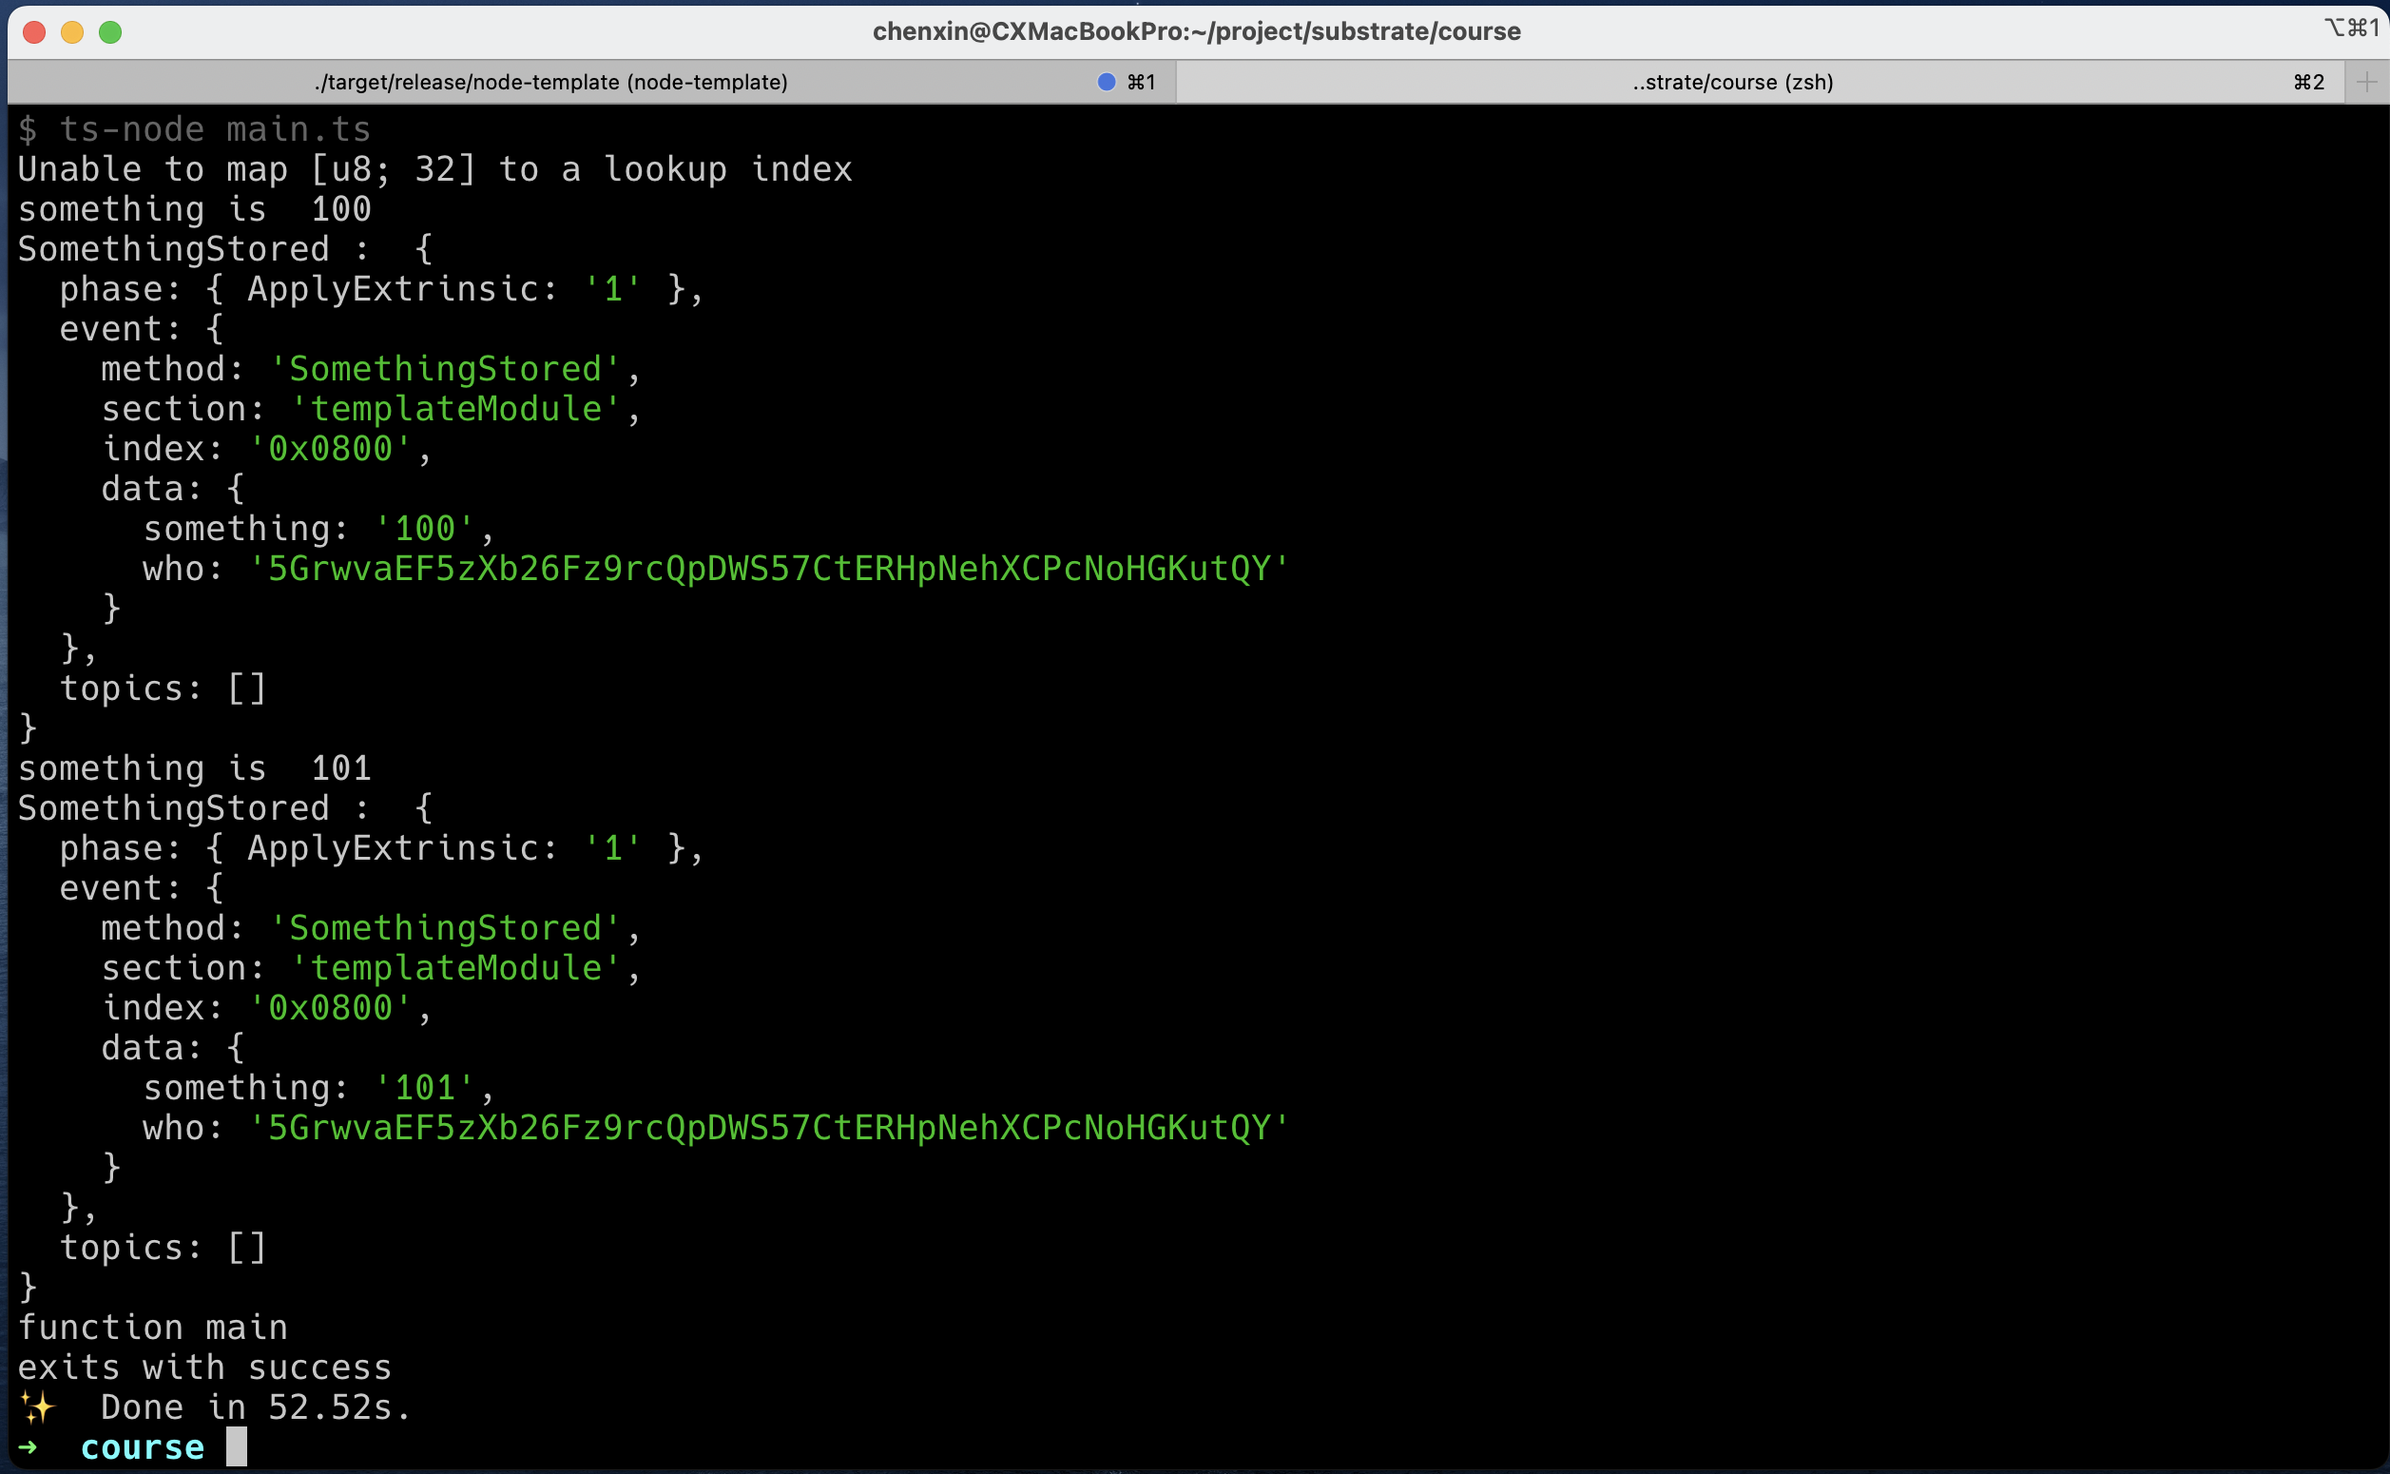
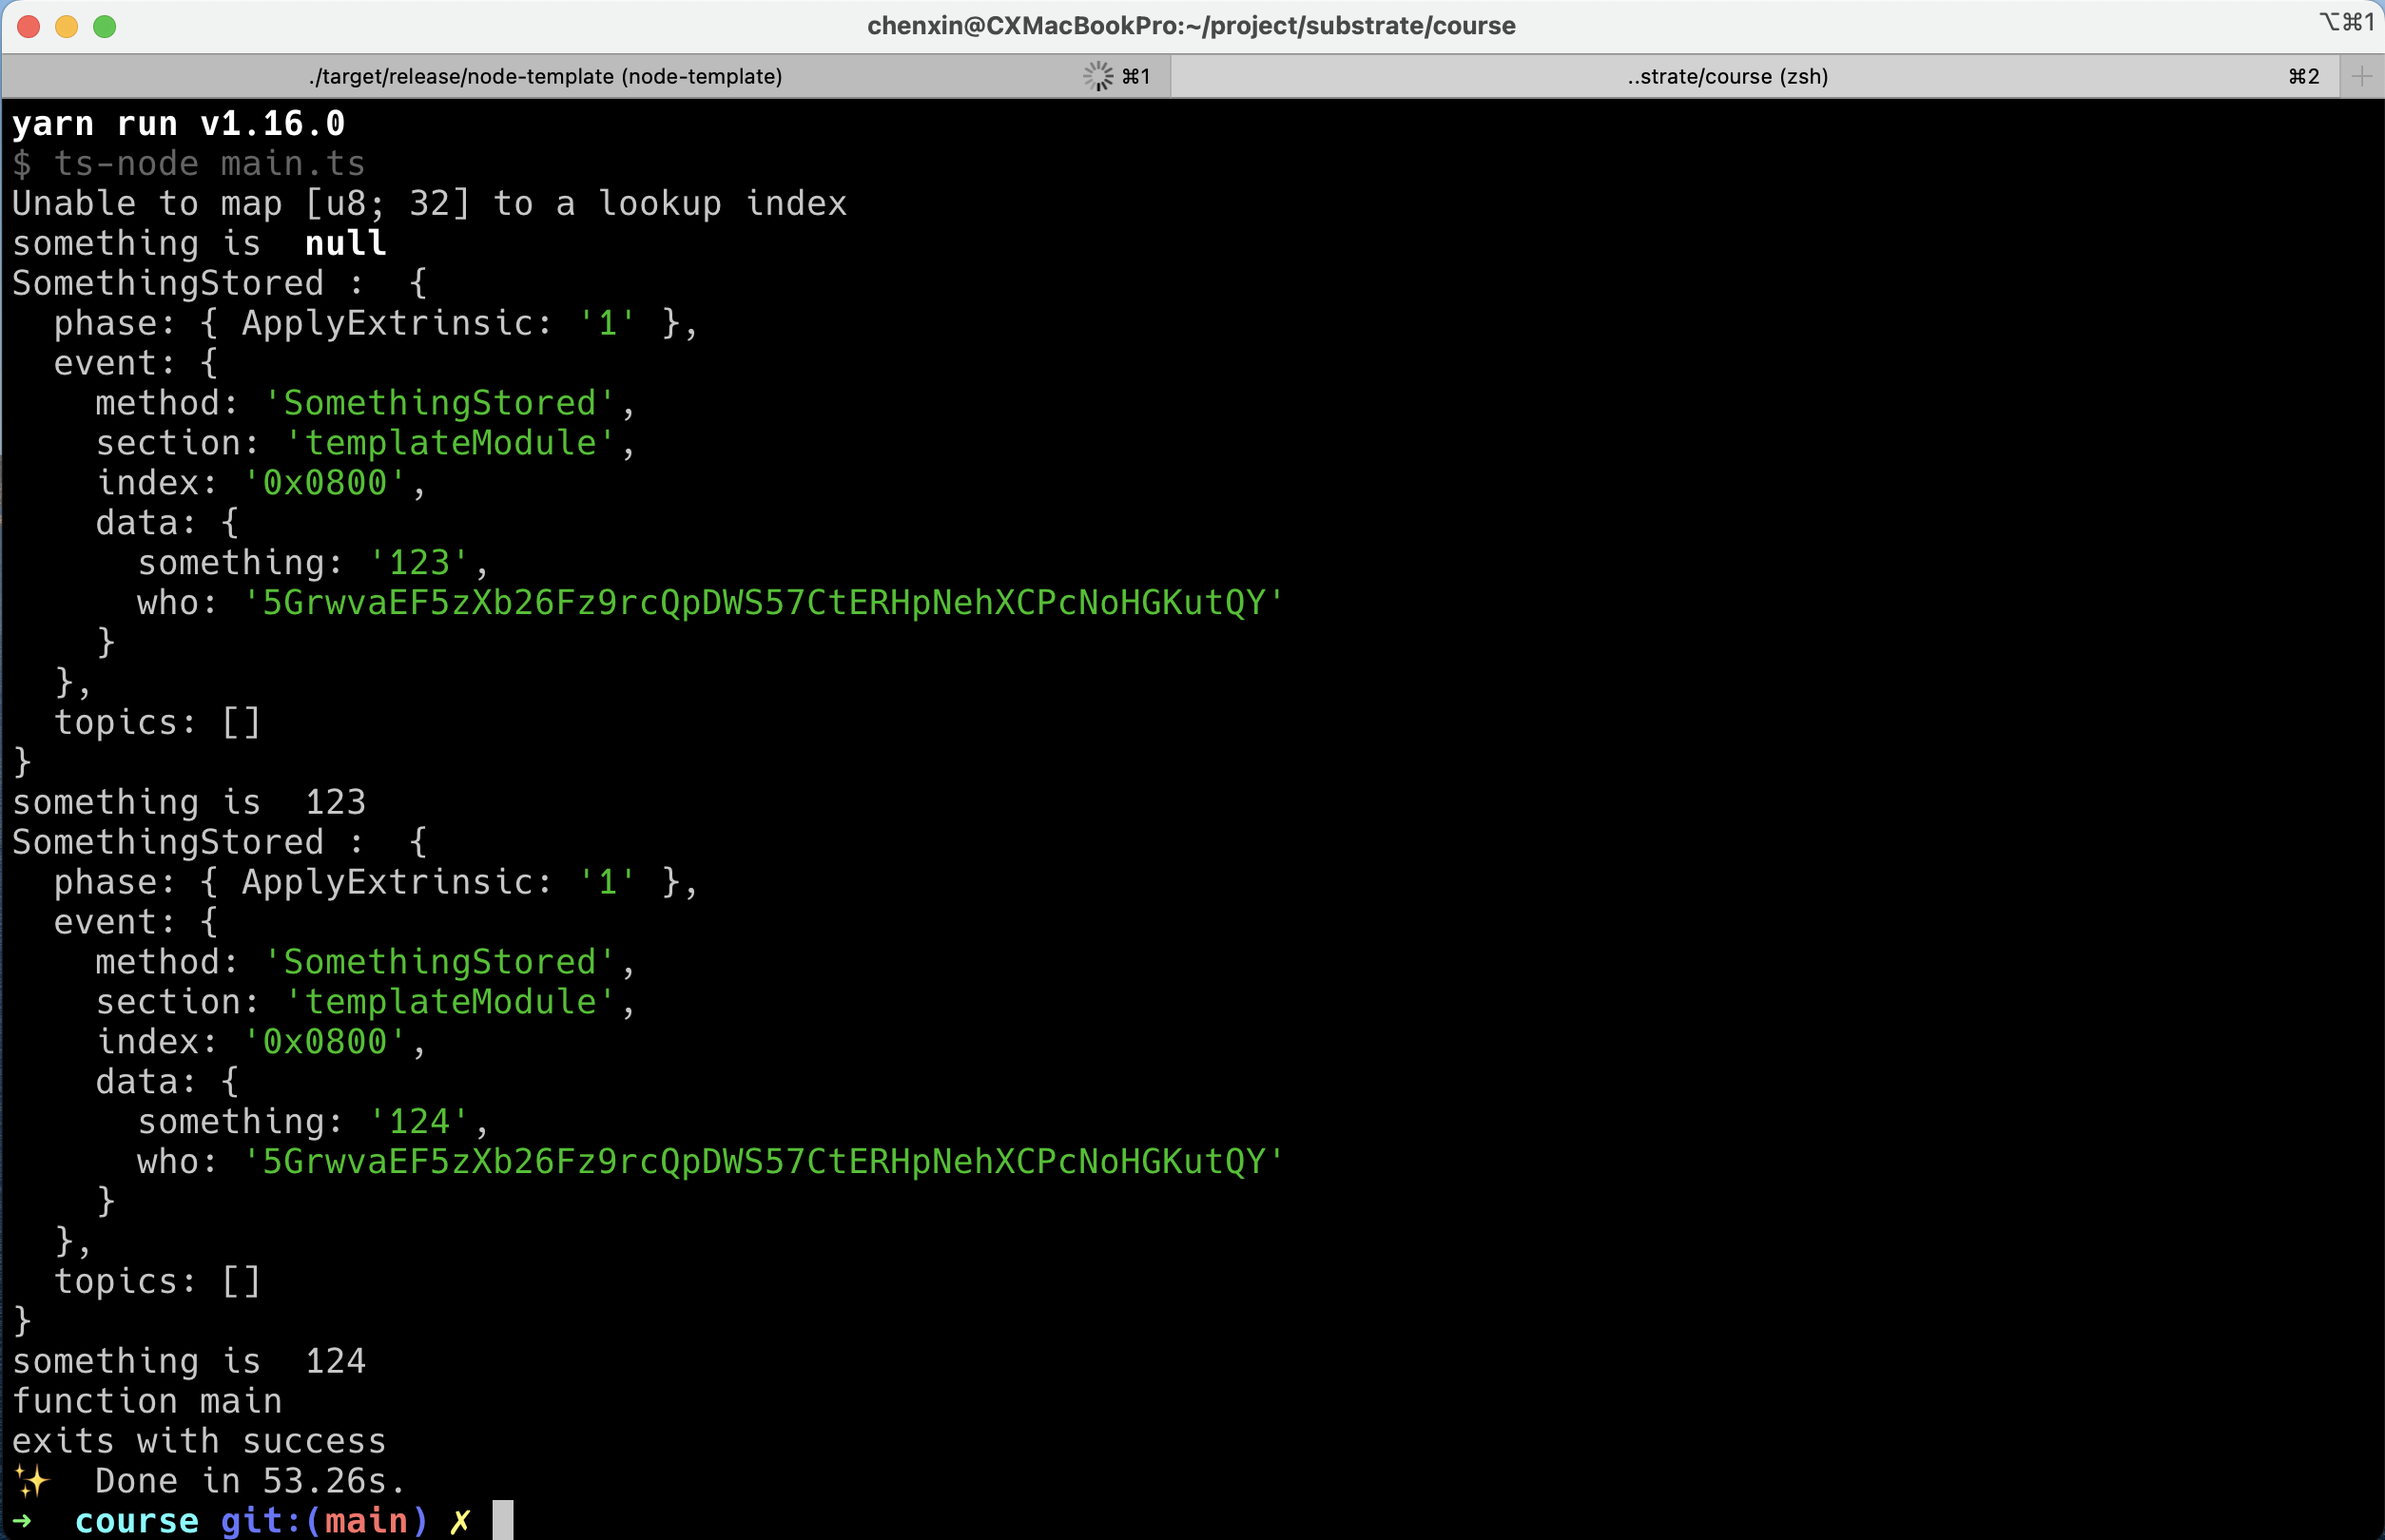
polkadot.js ead StorageValue Update

Changed region(s): [[0.0, 0.0, 1.0, 0.4026], [0.0, 0.4335, 0.5287, 0.7742], [0.0, 0.8052, 1.0, 1.0]]

diff --git a/main.ts b/main.ts
@@ -10,12 +10,17 @@ const connect = async () => {
     return api;
 }
 
-const subscribe = async (api: ApiPromise) => {
+const subscribeStorageValue = async (api: ApiPromise) => {
+    await api.query.templateModule.something((value: { toHuman: () => any; }) => {
+        console.log("something is ", value.toHuman());
+    });
+}
+
+const subscribeSomethingStoredEvent = async (api: ApiPromise) => {
     await api.query.system.events(events => {
         events.forEach(record => {
             const event = record.event;
             if(event.method === "SomethingStored") {
-                console.log("something is ", event.data[0].toHuman());
                 console.log("SomethingStored : ", record.toHuman());
             }
         });
@@ -25,8 +30,9 @@ const subscribe = async (api: ApiPromise) => {
 const main = async () => {
     const api = await connect();
 
+    await subscribeStorageValue(api);
     
-    await subscribe(api);
+    await subscribeSomethingStoredEvent(api);
     
     await sleep(50000);
 
